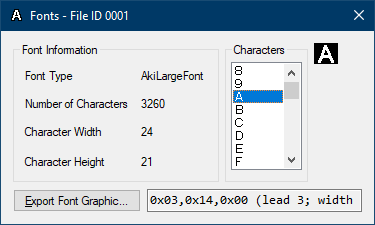
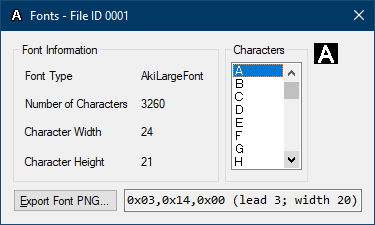
various manual updates

diff --git a/VPWStudio/VPWStudio/Manual/index.html b/VPWStudio/VPWStudio/Manual/index.html
@@ -10,7 +10,7 @@
 <div id="header">
 <h1><img class="logoimg" src="./img/logo.png" alt="The VPW Studio program logo consists of a yellow rectangular tower, rotated at an angle. The left side has a red swirl, and the right side has a blue swirl." /> VPW Studio</h1>
 <h2>Program Manual</h2>
-<p>Version 0.0.0.31 (September 25th, 2023)<br />Program and Manual by freem<br /><br />
+<p>Version 0.0.0.31 (October 25th, 2023)<br />Program and Manual by freem<br /><br />
 <a href="https://vpw.ajworld.net/">https://vpw.ajworld.net/</a><br /><a href="https://github.com/AKI-Club/VPWStudio">https://github.com/AKI-Club/VPWStudio</a></p>
 </div>
 
@@ -327,7 +327,7 @@ probably want some other tools on hand.</p>
 <ul>
 <li>A Nintendo 64 emulator, for testing builds of your projects. An emulator with debugging tools is highly recommended, and currently <em>required</em> for some changes.</li>
 <li>A 3D modeler, for viewing models exported in Wavefront OBJ format. If you haven't already bought into a specific 3D editor ecosystem, <a href="https://www.blender.org/">Blender</a> is free and supported on multiple platforms.
-<ul><li>And if you decide to use Blender (v2.93), grab the <a href="https://github.com/ProWrestlingMods/AKI-Model-Blender-IO-Addon"><code>AkiModel</code> import/export plugins by Grix</a>.</li></ul></li>
+<ul><li>And if you decide to use Blender (v2.93), grab the <a href="https://github.com/ProWrestlingMods/AKI-Model-Blender-IO-Addon"><code>AkiModel</code> import/export plugins by Grix</a>. Not sure if they work on Blender v3.0 or later.</li></ul></li>
 <li><a href="https://github.com/queueRAM/Texture64">Texture64</a> by queueRAM &ndash; handles various Nintendo 64 texture formats.</li>
 <li><a href="https://github.com/jombo23/N64-Tools">N64 Midi Tool and N64 Sound Tool</a>, originally by SubDrag and Ice Mario. As the names suggest, these handle sequenced and streaming sounds.</li>
 <li><a href="https://github.com/AKI-Club/vpwspal/releases/tag/v1.1">VPW Studio Palette Tools</a>, for quickly converting and merging JASC PSP palette files to VPW Studio palette format. Binaries are included with VPW Studio in the "Tools" folder. They are command-line programs, so use the Command Prompt to launch them. Documentation for these tools can be found in the <a href="#ExtPalTools">External Tools</a> section of this manual.</li>
@@ -1337,11 +1337,11 @@ available when making a new belt.</li>
 <tbody>
 <tr>
 <td>WCW vs. nWo World Tour</td>
-<td class="notsupported">No</td>
+<td class="partialsupport">Partial</td>
 </tr>
 <tr>
 <td>Virtual Pro-Wrestling 64</td>
-<td class="notsupported">No</td>
+<td class="partialsupport">Partial</td>
 </tr>
 <tr>
 <td>WCW/nWo Revenge</td>
@@ -1384,6 +1384,9 @@ and later, which can be found in the <a href="#Wrestlers">Wrestlers</a> section.
 view and edit the entries in the game's File Table. A large portion of the game's
 data is found here, including wrestler movesets, parameters, move data, animations,
 textures, palettes, models, and more.</p>
+
+<p>Due to various hardcoded file IDs in the game's code, it is not straightforward
+to add, remove, or move files around.</p>
 
 <h3>Game Support</h3>
 <table>
@@ -1447,8 +1450,8 @@ in the <a href="#CommonDataFormats">Common Data Formats</a> section, and game-sp
 <a href="#GameSpecificDocs">game-specific documentation</a>.</li>
 <li><strong>Edit Information</strong> &ndash; Opens the <a href="#FileTableEntryInfo">File Table Entry Information dialog</a> for the selected entry.</li>
 <li><strong>View Hex</strong> &rarr; <strong>ROM Data...</strong> &ndash; Opens a <a href="#HexViewer">Hex Viewer</a> with the selected entry's data in the base ROM.</li>
-<li><strong>View Hex</strong> &rarr; <strong>ReplacementFile Data...</strong> &ndash; Opens a <a href="#HexViewer">Hex Viewer</a> with the replacement file's data.<br/>
-NOTICE: This is how the file is stored on disk, and is not necessarily the format that will be written to ROM!</li>
+<li><strong>View Hex</strong> &rarr; <strong>ReplacementFile Data...</strong> &ndash; Opens a <a href="#HexViewer">Hex Viewer</a> with the replacement file's data. Only enabled if an entry has a replacement file set.<br/>
+NOTICE: This is how the <em>unconverted</em> file is stored on disk, and is not necessarily the format that will be written to ROM!</li>
 <li><strong>Extract File</strong> &ndash; Extracts the selected entry to a file, decompressing it if necessary.</li>
 <li><strong>Extract Raw</strong> &ndash; Extracts the compressed version of the selected
 entry without decompressing it. (Only available if "LZSS" is set to "True" for this entry.
@@ -1488,12 +1491,17 @@ a dialog with a list of possible FileTypes. Choose your desired FileType and
 press OK. You can also use <kbd>F3</kbd> to continue the FileType search.</p>
 
 <h3>Database Menu</h3>
-<p>The Database menu only contains one option, but it's important if you've upgraded
-to a new version of VPW Studio or updated the FileTableDB for the game you're editing.
-"Reload File Table Database" will let you update your project's File Table with the
+<p>The Database menu contains functionality related to File Table Databases.</p>
+
+<h4>Reload File Table Database</h4>
+<p>"Reload File Table Database" will let you update your project's File Table with the
 current data in the FileTableDB file for the current game. When selecting this option,
 you will be asked if you want to overwrite any of your existing comments with the
 comments in the FileTableDB.</p>
+
+<h4>FTDB Info</h4>
+<p>Provides the number of "labeled" entries in the current game's FileTableDB.
+Primarily intended for internal use.</p>
 
 <h3>Export Menu</h3>
 <p>The Export Menu is something most people won't ever need to touch, but it is
@@ -1528,11 +1536,11 @@ for specific file types.</p>
 <ul>
 <li><strong>Image Width</strong> &ndash; Set the width of an image. Primarily used with <code>I*Texture</code> and <code>RawCi*</code> types. "Unset" value is -1.</li>
 <li><strong>Image Height</strong> &ndash; Set the height of an image. Primarily used with <code>I*Texture</code> and <code>RawCi*</code> types. "Unset" value is -1.</li>
-<li><strong>Transparent Color Index</strong> &ndash; Currently unused. "Unset" value is -1.</li>
+<li><strong>Transparent Color Index</strong> &ndash; Currently unused, likely to get repurposed. "Unset" value is -1.</li>
 <li><strong>Default Palette ID</strong> &ndash; Set the default palette ID, used for
-previewing images. The value corresponds to an index in the File Table, and is
-hexadecimal. "Unset" value is <code>FFFFFFFFFFFFFFFF</code>, since File Table IDs
-are unsigned.</li>
+previewing  <code>CI*Texture</code> format images. The value corresponds to an index
+in the File Table, and is hexadecimal. The "Unset" value is <code>FFFFFFFFFFFFFFFF</code>,
+since File Table IDs are unsigned.</li>
 <li><strong>Horizontal Mirroring</strong> &ndash; Force horizontal mirroring for a texture. Primarily used with <code>CI*Texture</code>s.</li>
 <li><strong>Vertical Mirroring</strong> &ndash; Force vertical mirroring for a texture. Primarily used with <code>CI*Texture</code>s.</li>
 </ul>
@@ -1754,8 +1762,12 @@ spreadsheet. Paste it into cell D3 (main) or D43 (secondary).</p>
 <img src="./img/fontviewer.png" title="Font Viewer Dialog" />
 <p>FileTable entries marked as <code>AkiSmallFont</code> and <code>AkiLargeFont</code>
 bring up this dialog. You are able to view each of the characters stored in the font,
-as well as the "header" bytes. Editing the fonts requires a separate program (see
-the <a href="#FontWorkflow">Font Workflow</a> section for more details).</p>
+as well as the "header" bytes. If the "header" text box has a light blue color, one
+of the fallback character sets is being used. The fallback character set may or may
+not line up with the actual glyphs in the font file.</p>
+
+<p>Editing the fonts requires a separate program (see the
+<a href="#FontWorkflow">Font Workflow</a> section for more details).</p>
 
 <hr />
 <h2><a name="GameIntro">Game Introduction</a></h2>
@@ -1802,8 +1814,9 @@ as an Editor, so all changes must be done to the base ROM in a hex editor.</p>
 
 <hr />
 <h2><a name="MatchRulesets">Match Rulesets</a></h2>
-<p>todo: only works with VPW2, data needs to be found/re-found for other games;
-doesn't actually edit values</p>
+<p>View the various match rulesets in the game data. You can't currently edit the values.</p>
+
+<p>todo: only works with VPW2 and No Mercy, data needs to be found/re-found for other games</p>
 
 <hr />
 <h2><a name="Menus">Menus</a></h2>
@@ -1815,8 +1828,8 @@ plus it's pretty different for each of the games)</p>
 
 <hr />
 <h2><a name="Moves">Moves</a></h2>
-<p>The Moves section (Project &rarr; Moves) deals with every move and animation found
-in the game. This is not to be confused with wrestler movesets.</p>
+<p>The Moves section (Project &rarr; Moves) deals with every move and animation
+found in the game. This is not to be confused with wrestler movesets.</p>
 
 <p>(todo: this takes a lot of work to get right, considering moves are composed
 of multiple parts (toki1, damage, actual animation data, data required for things
@@ -1895,6 +1908,10 @@ The stable data controls how the wrestlers are grouped and displayed in the menu
 <li><strong>Championship Text Pointer</strong> &ndash; Pointer to Championship-related text for this stable.</li>
 <li><strong>Championship Count</strong> &ndash; Number of Championships this stable has.</li>
 </ul>
+
+<p>If the selected stable has any championships, the "View Championships" button will
+be enabled. Clicking it will open the <a href="#Championships">Championships</a> dialog with the active
+stable.</p>
 
 <h3>WCW/nWo Revenge</h3>
 <img src="./img/stable_editor-revenge.png" title="Stable Editor - WCW/nWo Revenge" />
@@ -2177,8 +2194,9 @@ the list of vertices and faces.</p>
 "Export OBJ..." button.</p>
 
 <h3><a name="PNGTools">PNG Conversion</a></h3>
-<p>Though the preferred way to convert PNG files is to include them in the project,
-sometimes you need to generate target files separately from the build process.</p>
+<p>Though the preferred way to convert PNG files is to include them in the project
+via the File Table, sometimes you need to generate target files separately from
+the build process.</p>
 <ul>
 <li><strong>PNG to AKI TEX</strong> &ndash; Converts a PNG to TEX format. PNG must be 16 or 256 colors.</li>
 <li><strong>PNG to CI4Texture</strong> &ndash; Converts a PNG to CI4 format. PNG must be 16 colors.</li>
@@ -2213,7 +2231,7 @@ the base for the final, more polished features. Starting with pre-Alpha Preview
 <li><strong>stable parse test</strong> &ndash; Internal test of parsing the text StableDefinition format. Only properly handles VPW2 and No Mercy formats.</li>
 <li><strong>rom slice test</strong> &ndash; Test the HexViewerManager by getting a specific slice of ROM data. Requires an open project.</li>
 <li><strong>open file in hex viewer</strong> &ndash; Open an external file in the hex viewer.</li>
-<li><strong>move damage test (WM2K/VPW2/No Mercy only)</strong> &ndash; Show move damage values. Requires an open WM2K/VPW2/No Mercy project.</li>
+<li><strong>move damage test</strong> &ndash; Show move damage values. Requires an open project.</li>
 <li><strong>text index tool</strong> &ndash; Convert from WM2K, VPW2, and No Mercy text index values to location and index.</li>
 <li><strong>tim test</strong> &ndash; Tests loading of TIM files (PlayStation textures) and their internal CLUT/palette values.</li>
 <li><strong>test scene 3d</strong> &ndash; attempting to display multiple models at once. requires an open project file. incomplete and very awkward to use, only recommended for experts and
@@ -2564,6 +2582,9 @@ megabytes, it probably won't work on the real N64 hardware.</p>
 </ul>
 
 <h3>Patch Creation</h3>
+<p>todo: certain versions of xdelta force a secondary compression type that won't
+work with Web Patcher JS; not sure how to handle this with xdelta UI</p>
+
 <p>On Windows, "<a href="https://www.romhacking.net/utilities/598/">xdelta UI</a>"
 is recommended. Open xdeltaUI, then switch to the "Create Patch" tab, and follow these
 steps:</p>
@@ -2578,7 +2599,10 @@ for your patch.</li>
 <li>Finally, click the "Patch" button to create the patch.</li>
 </ol>
 
-<p>For command line/terminal users: <code>xdelta3 -e -s old_file new_file delta_file</code></p>
+<p>For command line/terminal users: <code>xdelta3 -e -S none -s old_file new_file delta_file</code></p>
+<p>The <code>-S none</code> is included to disable any default secondary compressor.
+This is recommended for compatibility purposes, as Web Patcher JS does not support
+any secondary compression functionality.</p>
 
 <h3>Checksums and Hashes</h3>
 <p>Multiple checksums and hashes are involved with the ROM, as well as some of
